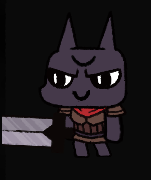
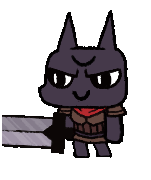
Added re-cropped images and changed follower portrait size

diff --git a/app.js b/app.js
@@ -518,7 +518,7 @@ function populateCurrentFollowers() {
         content +=
             `<div class="col">
                 <div class="card" style="width: 16rem;">
-                    <img src="assets/Follower_Forms/${result.SkinName}.png" onerror="this.src='assets/Follower_Forms/Unknown.png'" class="card-img-top" id="FollowerPortrait_${result.ID}" alt="Picture not available">
+                    <img src="assets/Follower_Forms/${result.SkinName}.png" onerror="this.src='assets/Follower_Forms/Unknown.png'" class="card-img-top" id="FollowerPortrait_${result.ID}" width="200px" height="230px" alt="Picture not available">
                     <div class="card-body">
                         <h5 class="card-title">
                             ${result.Name}
